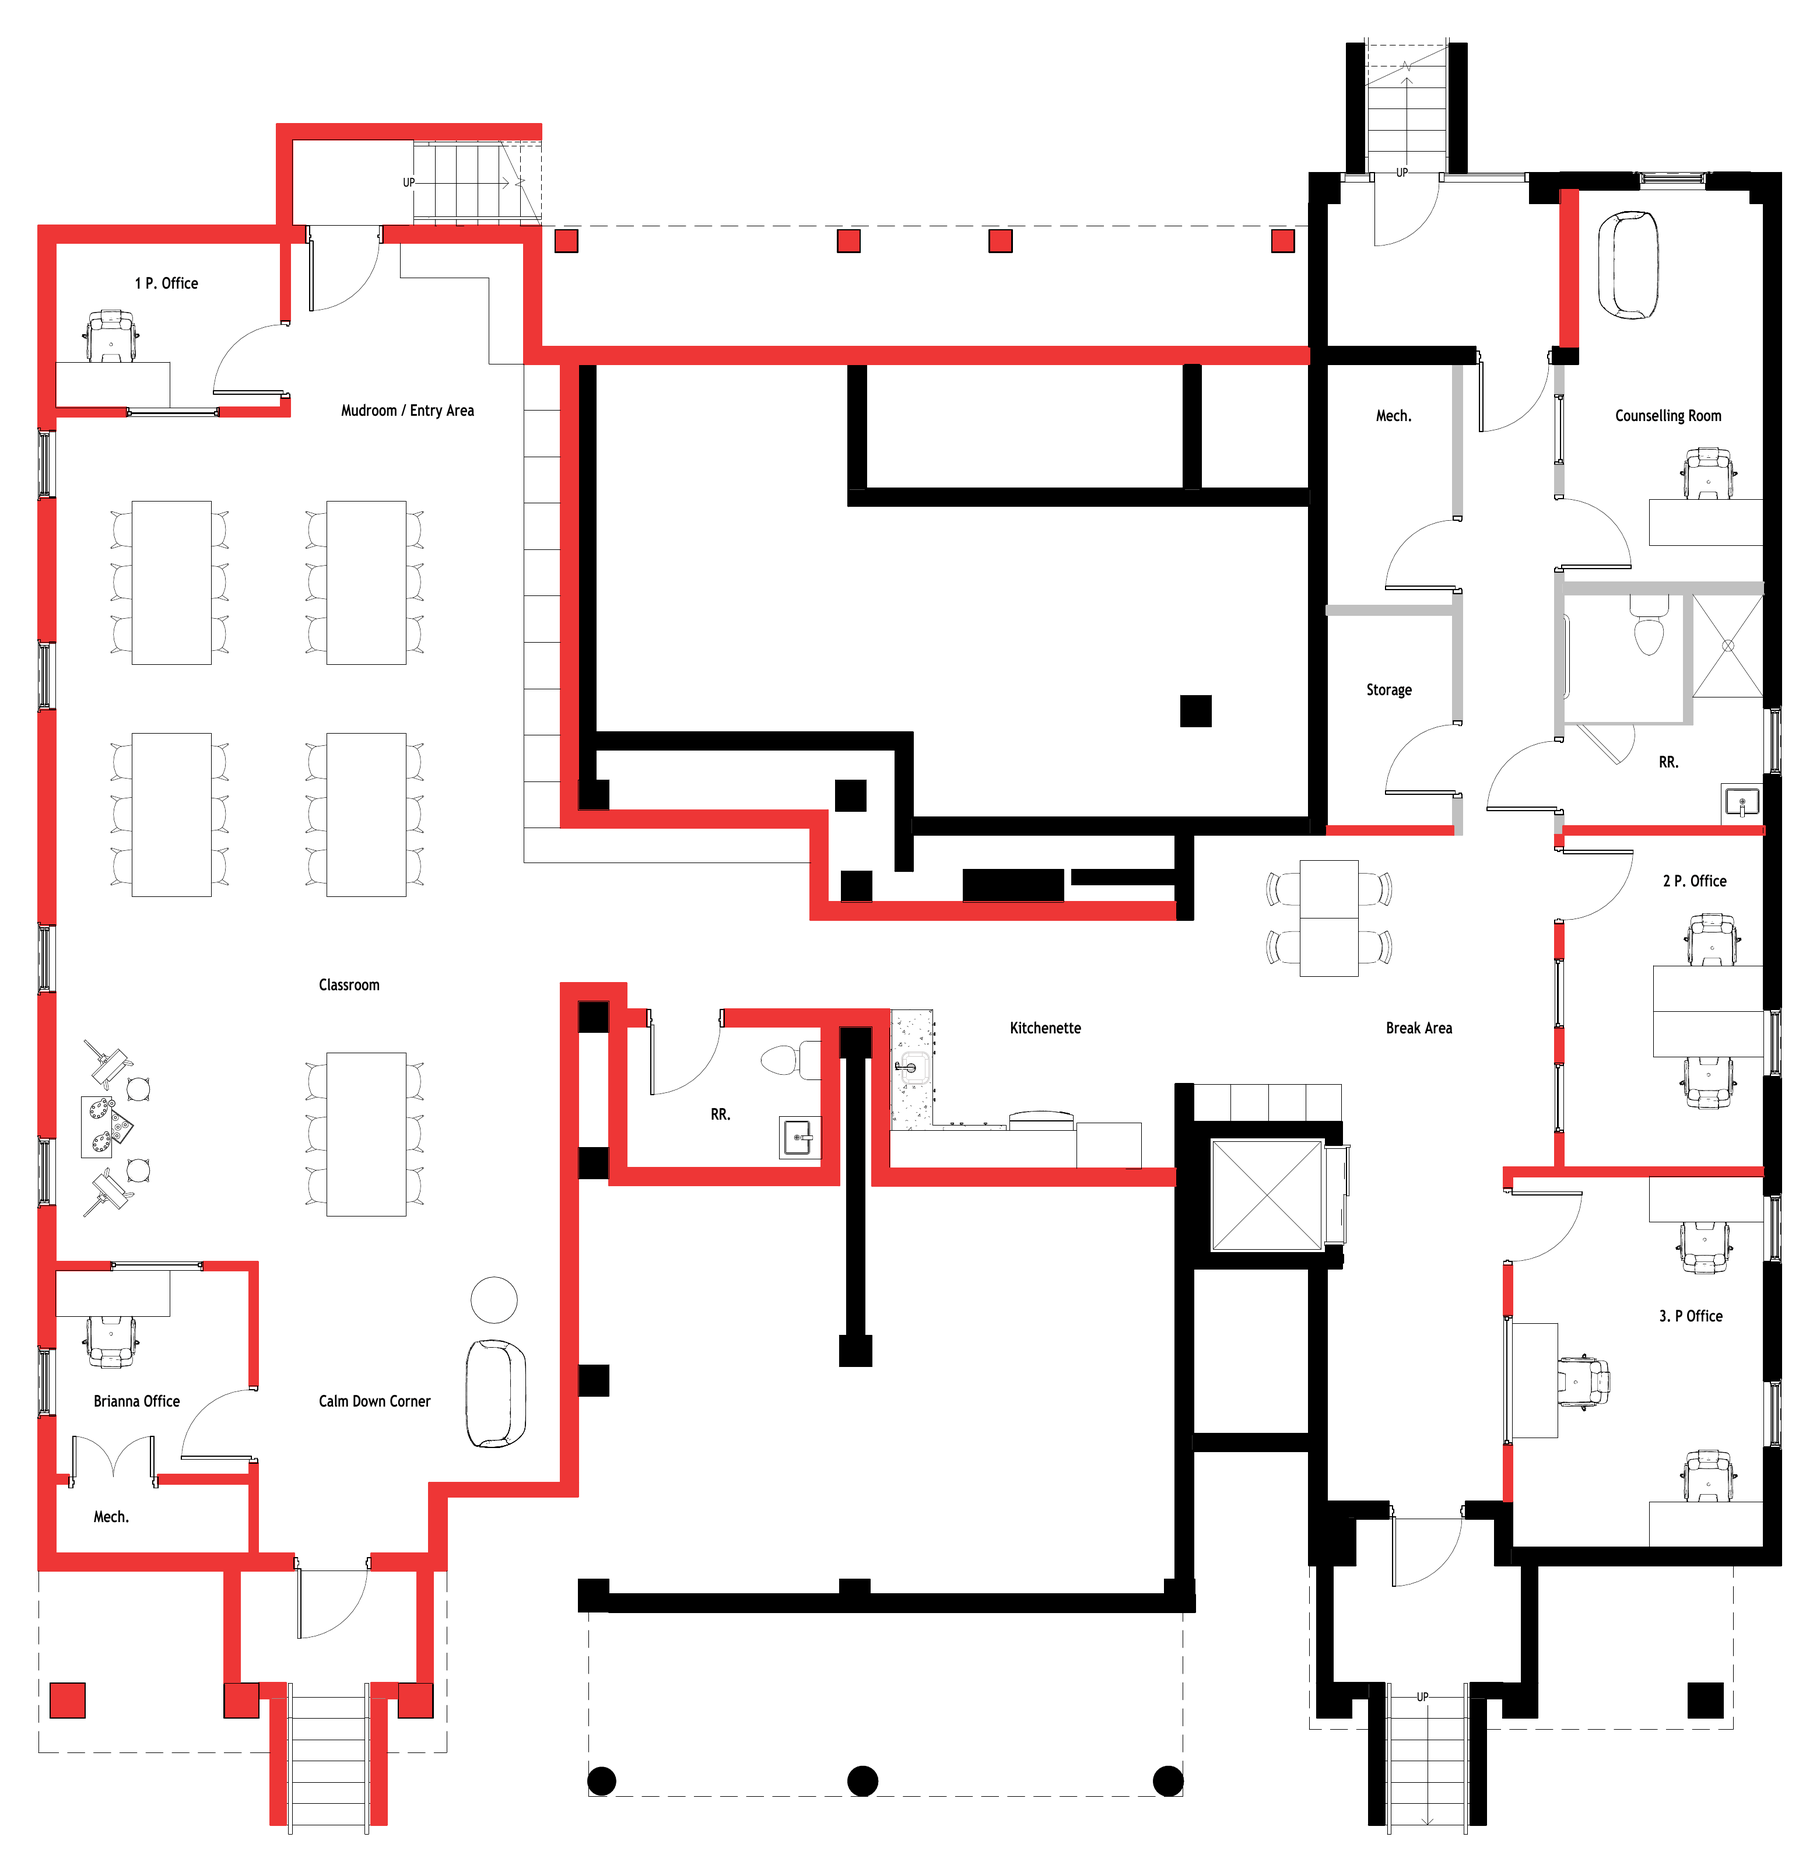
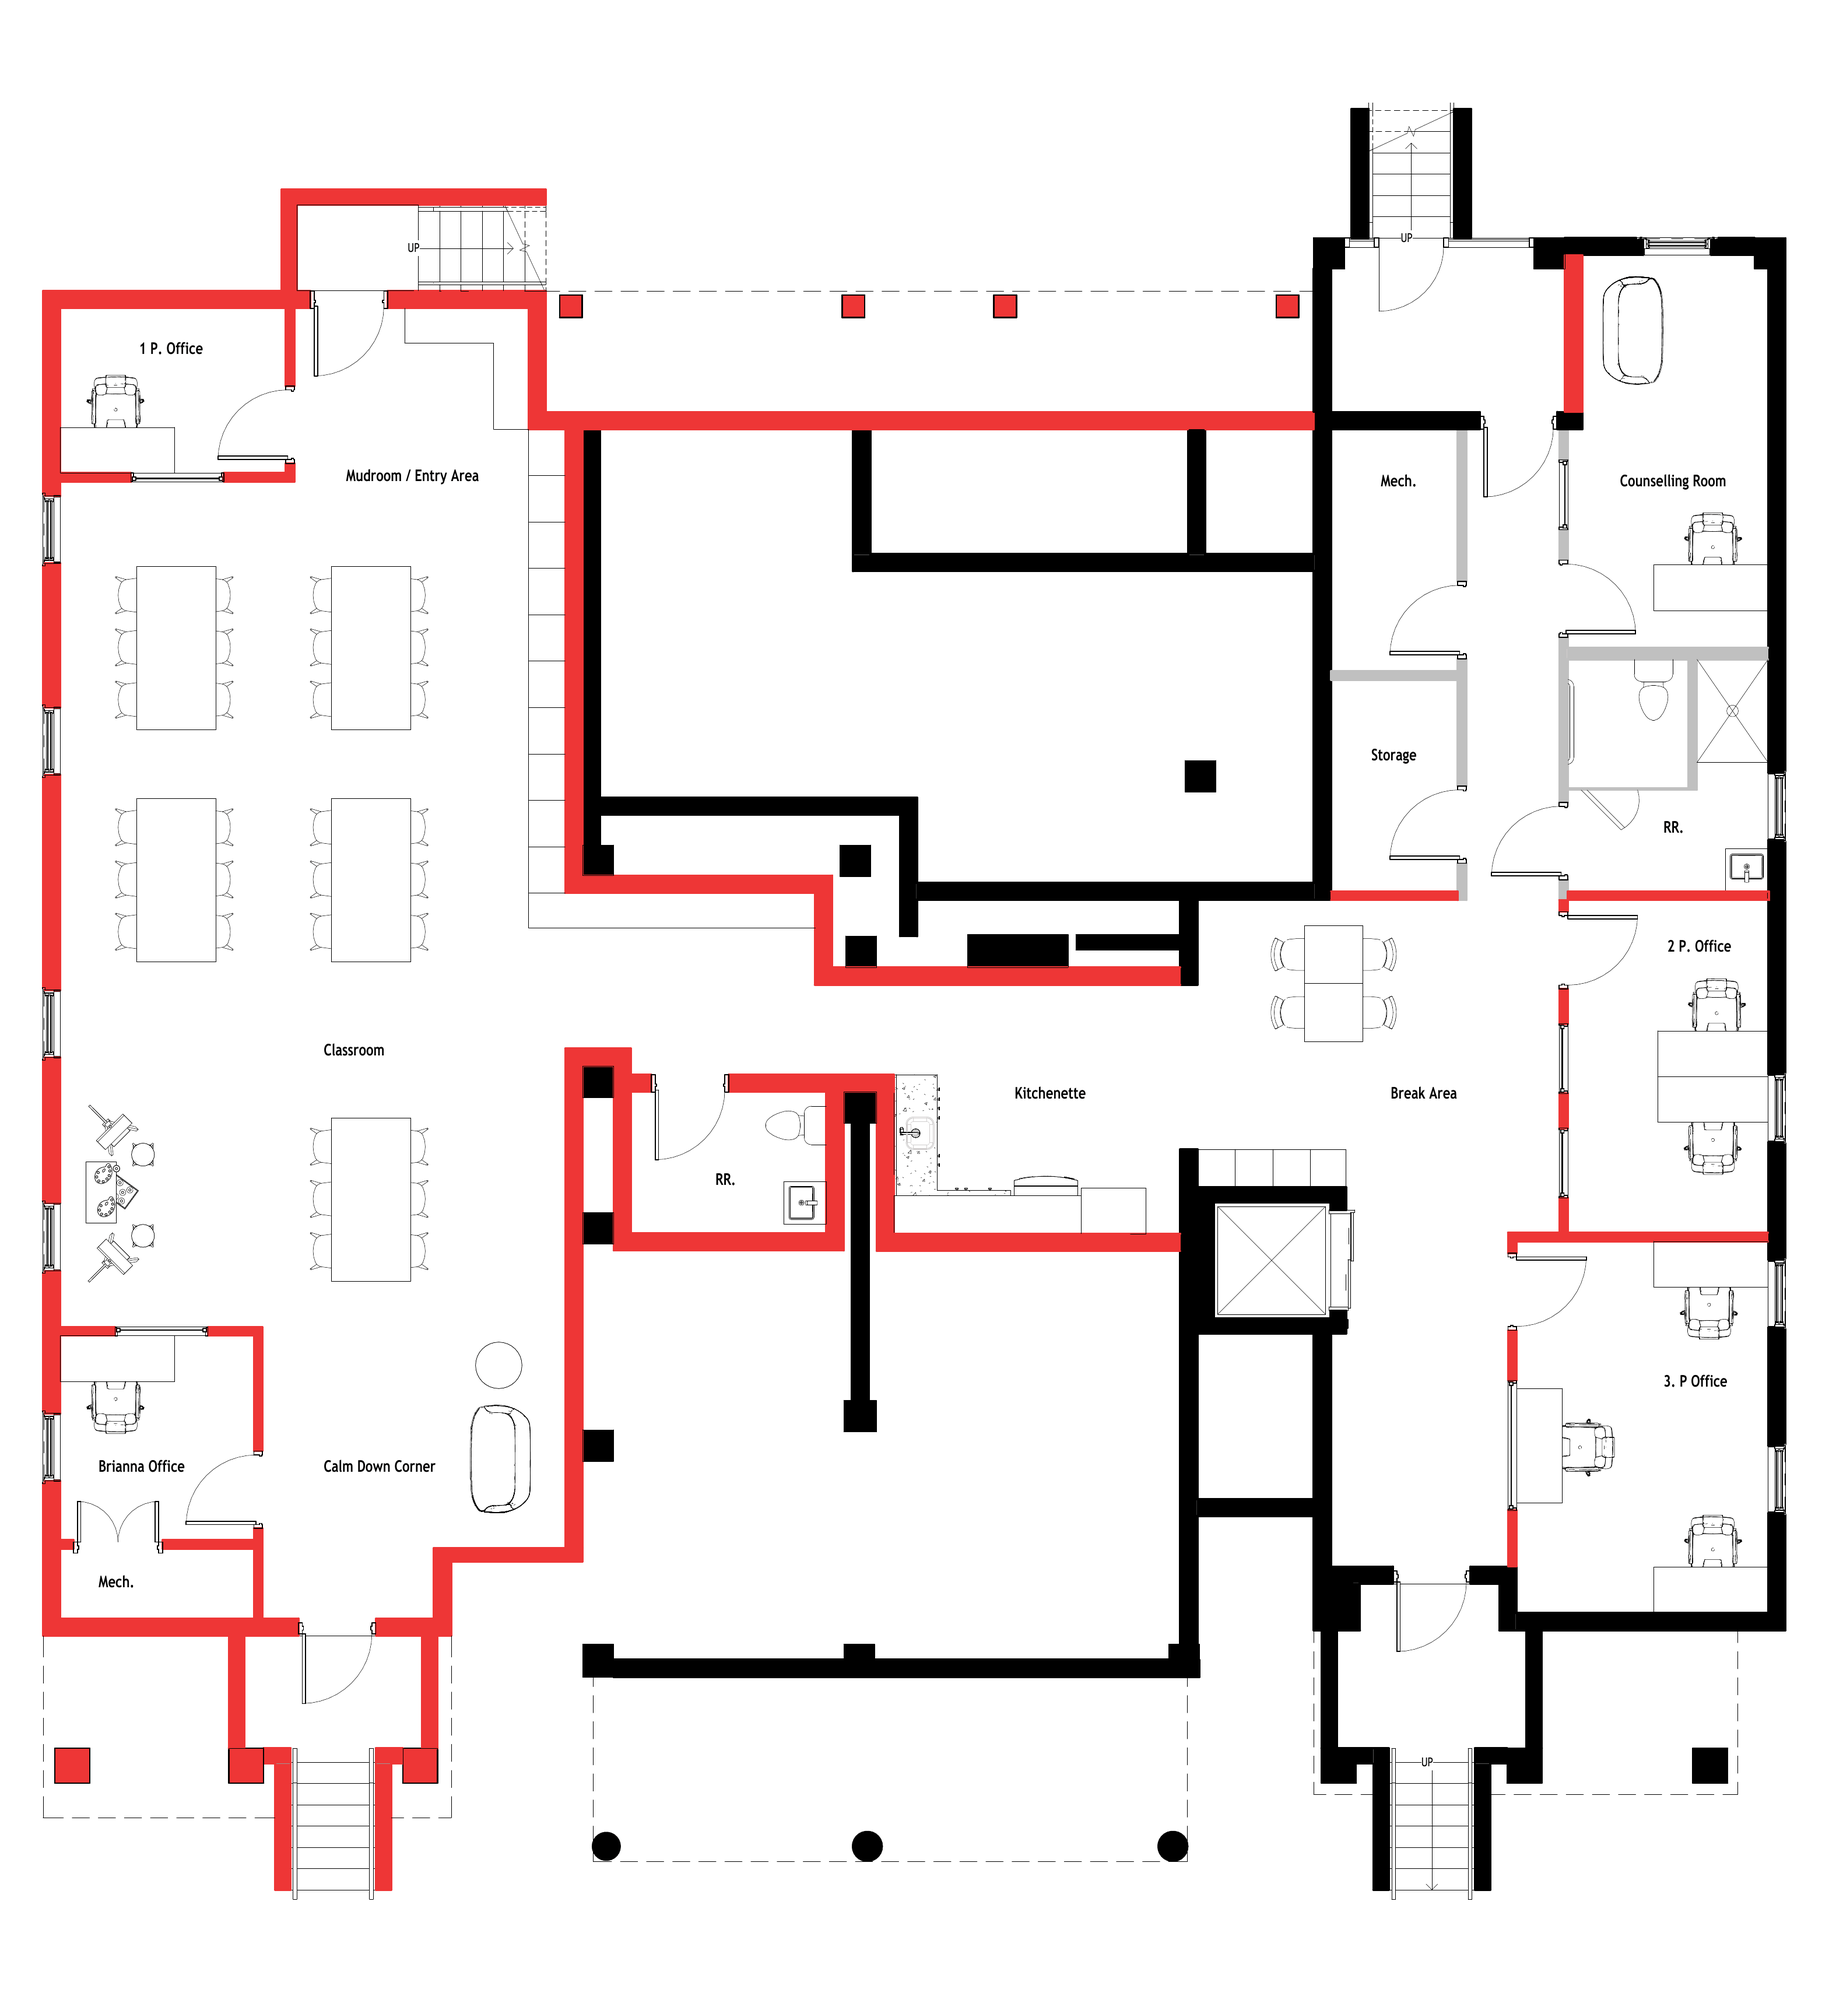
Same frame size and scale for every floor plan
Claude-Session: https://claude.ai/code/session_01UdRhD9eHH62cieLrJbC5TD

diff --git a/content.js b/content.js
@@ -43,8 +43,8 @@ window.PROPOSAL = {
       floorPlan: "basement.png",
       floorPlanFull: "basement.pdf",
       views: [
-        { name: "Classroom", url: "https://kuula.co/share/LC6vh?logo=1&info=1&fs=1&vr=0&sd=1&thumbs=1", pin: { x: 15.4, y: 49.5 } },
-        { name: "Kitchenette", url: "https://kuula.co/share/LC6vp?logo=1&info=1&fs=1&vr=0&sd=1&thumbs=1", pin: { x: 55.8, y: 57.3 } },
+        { name: "Classroom", url: "https://kuula.co/share/LC6vh?logo=1&info=1&fs=1&vr=0&sd=1&thumbs=1", pin: { x: 15.6, y: 49.5 } },
+        { name: "Kitchenette", url: "https://kuula.co/share/LC6vp?logo=1&info=1&fs=1&vr=0&sd=1&thumbs=1", pin: { x: 55.8, y: 56.8 } },
       ],
     },
     {
@@ -64,8 +64,8 @@ window.PROPOSAL = {
       floorPlan: "level-2.png",
       floorPlanFull: "level-2.pdf",
       views: [
-        { name: "Living Room", url: "https://kuula.co/share/LC6vT?logo=1&info=1&fs=1&vr=0&sd=1&thumbs=1", pin: { x: 58.8, y: 58.5 } },
-        { name: "Library", url: "https://kuula.co/share/LC6JN?logo=1&info=1&fs=1&vr=0&sd=1&thumbs=1", pin: { x: 36.8, y: 44.9 } },
+        { name: "Living Room", url: "https://kuula.co/share/LC6vT?logo=1&info=1&fs=1&vr=0&sd=1&thumbs=1", pin: { x: 58.8, y: 57.3 } },
+        { name: "Library", url: "https://kuula.co/share/LC6JN?logo=1&info=1&fs=1&vr=0&sd=1&thumbs=1", pin: { x: 36.8, y: 45.6 } },
       ],
     },
     {
@@ -74,7 +74,7 @@ window.PROPOSAL = {
       floorPlan: "dormer.png",
       floorPlanFull: "dormer.pdf",
       views: [
-        { name: "Kitchenette", url: "https://kuula.co/share/LC6vg?logo=1&info=1&fs=1&vr=0&sd=1&thumbs=1", pin: { x: 59.7, y: 43.4 } },
+        { name: "Kitchenette", url: "https://kuula.co/share/LC6vg?logo=1&info=1&fs=1&vr=0&sd=1&thumbs=1", pin: { x: 59.7, y: 45.2 } },
       ],
     },
 
